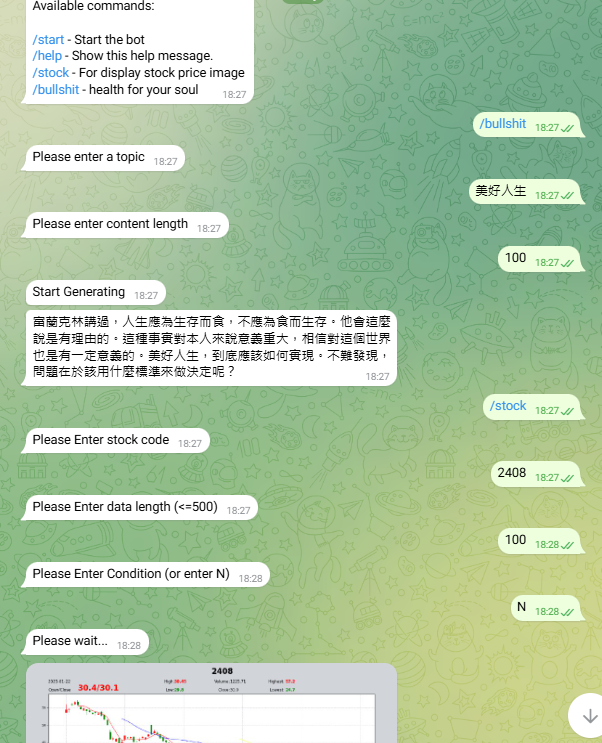
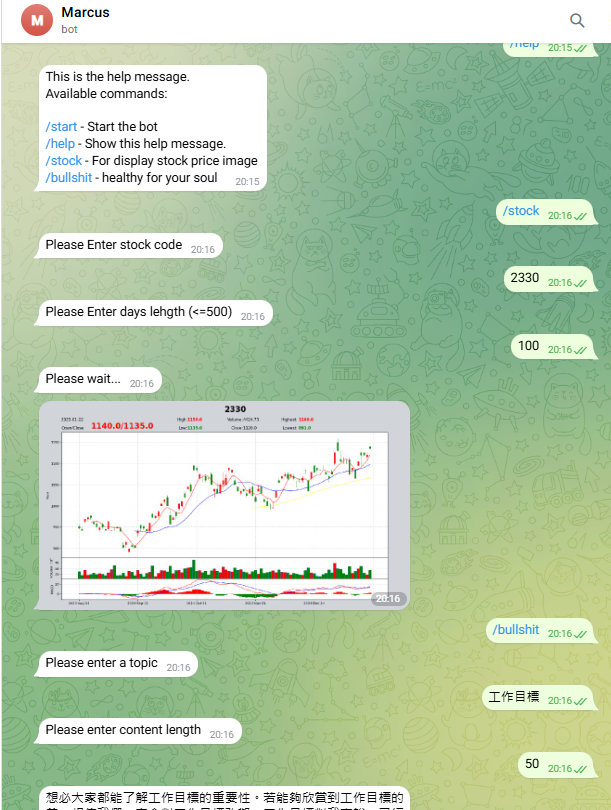
Daily Scraping Done and revise telegram bot

diff --git a/src/TelegramBot/command_handler/stock_handler.py b/src/TelegramBot/command_handler/stock_handler.py
@@ -20,7 +20,7 @@ def register_stock_handler(bot: TeleBot):
         send_info("Reveive stock code")
         chat_id = message.chat.id
         request_body['stock_id'] = message.text
-        bot.send_message(chat_id, 'Please Enter data length (<=500)')
+        bot.send_message(chat_id, 'Please Enter days lehgth (<=500)')
         bot.register_next_step_handler(message, request_length)
 
     @error_handle
@@ -28,27 +28,12 @@ def register_stock_handler(bot: TeleBot):
         send_info("Reveive data length")
         chat_id = message.chat.id
         request_body['limit'] = message.text
-        bot.send_message(chat_id, 'Please Enter Condition (or enter N)')
-        bot.register_next_step_handler(message, generate_image)
-
-    @error_handle
-    def generate_image(message):
-        
-        chat_id = message.chat.id
-        bot.send_message(chat_id, 'Please wait...')
-
-        condition = message.text.upper()
-
-        if condition == 'N':
-            pass
-        else:
-            request_body['condition'] = condition
 
         send_info(f"parameter: {request_body}")
         bot.send_message(chat_id, 'Please wait...')
 
         url = f"http://{SERVER_INFO['url']}:{SERVER_INFO['port']}/image"
-        response = requests.post(url, params=request_body)
+        response = requests.get(url, params=request_body)
         if response.status_code == 200:
             image = BytesIO(response.content)
             bot.send_photo(chat_id, image)

diff --git a/src/Controller/ScarpingController.py b/src/Controller/ScarpingController.py
@@ -1,25 +1,24 @@
 from time import sleep
+from datetime import datetime
 
 from fastapi import APIRouter, HTTPException,status, Response
 from ..setting import send_warn
 from ..Database import sql_client
 from ..Scraping import daily_scraping, setting_stock_list
 
-scraping = APIRouter(prefix="/scraping",tags=['scraping'])
+scraping_router = APIRouter(prefix="/scraping",tags=['scraping'])
 
-@scraping.post("/daily")
-async def daily_work(date: str):
+@scraping_router.get("/daily")
+async def daily_work(date: str=datetime.now().strftime("%Y-%m-%d")):
     """
     ## Hint:
     date format need to be "%Y-%m-%d" beginning
     """
     stock_list = setting_stock_list()
-
     try:
         for stock in stock_list:
             df = daily_scraping(stock, date)
             if df is None:
-                send_warn(f"stock {stock} Data not Found")
                 continue
             sql_client.insert_data("stock_price", df)
             sleep(1)

diff --git a/src/app.py b/src/app.py
@@ -3,8 +3,7 @@ from fastapi import FastAPI
 from fastapi.middleware.cors import CORSMiddleware
 
 from .setting import LogMiddleware, send_info
-from .Controller import image_router
-from .Controller.BullshitController import bullshit_router
+from .Controller import all_controller
 from .TelegramBot.Initial import start_polling
 
 async def app_lifespan(app: FastAPI):
@@ -24,8 +23,9 @@ app.add_middleware(
     allow_methods=["*"],
     allow_headers=["*"],
 )
-app.include_router(image_router)
-app.include_router(bullshit_router)
+
+for controller in all_controller:
+    app.include_router(controller)
 
 @app.get("/")
 async def Hello_world():

diff --git a/src/Controller/ImageController.py b/src/Controller/ImageController.py
@@ -5,12 +5,12 @@ from ..setting import send_info
 image_router = APIRouter(prefix="/image",tags=["images"])
 
 
-@image_router.post("")
-def get_img(stock_id: str, condition: str = None, limit: int = 200):
+@image_router.get("")
+def get_img(stock_id: str, limit: int = 200):
     try:
-        send_info(f"stock_id: {stock_id};condition: {condition};limit: {limit}")
+        send_info(f"stock_id: {stock_id};limit: {limit}")
 
-        action = StockImage(stock_id, limit, condition)
+        action = StockImage(stock_id, limit)
         img_buf = action.draw_picture()
 
         headers = {'Content-Disposition': 'inline; filename="out.png"'}

diff --git a/src/Scraping/stock_price.py b/src/Scraping/stock_price.py
@@ -27,7 +27,6 @@ def daily_scraping(stock_id:str, date:str) -> pd.DataFrame|None:
         df.reset_index(inplace=True)
         df['Date'] = pd.to_datetime(df['Date'].dt.strftime('%Y-%m-%d'))
         df['stock_id'] = stock_id.split('.')[0]
-        send_info(f"Scraping stock price for {stock_id} on {start_date} success")
         return df
     else:
         send_warn(f"No data found for {stock_id} on {start_date}")

diff --git a/src/Controller/__init__.py b/src/Controller/__init__.py
@@ -1,1 +1,5 @@
 from .ImageController import image_router
+from .ScarpingController import scraping_router
+from .BullshitController import bullshit_router
+
+all_controller = [image_router, scraping_router,bullshit_router]

diff --git a/src/Controller/BullshitController.py b/src/Controller/BullshitController.py
@@ -1,4 +1,3 @@
-import json
 from fastapi import APIRouter,HTTPException,status
 from pydantic import BaseModel
 from ..Bullshit.helath_soul import BullShit

diff --git a/README.md b/README.md
@@ -11,6 +11,124 @@
 
 ![image](./docs/telegram.jpg)
 
+### airflow_dag.py
+```python
+from datetime import datetime, timedelta
+import pytz
+
+import requests
+from airflow.decorators import dag
+from airflow.operators.python import (
+    BranchPythonOperator,
+    PythonOperator
+)
+from airflow.operators.empty import EmptyOperator
+from airflow.operators.email import EmailOperator
+from setting import URL, EMAIL
+
+def request_scraping(**context):
+    execution = context['data_interval_end']
+    date = execution.strftime("%Y-%d-%m")
+    request_body = {'date':date}
+    response = requests.get(
+        f"{URL}/scraping/daily",
+        params=request_body
+    )
+
+default_dags = {
+    "owner": "MarcusLin",
+    "depend_on_post": False,
+    "start_date": datetime(
+        2025,2,1,tzinfo=pytz.timezone("Asia/Taipei")
+        ),
+    "email": ['user@example.com'],
+    "email_on_failure": False,
+    "email_in_retry": False,
+    "retries": 1,
+    "retry_delay": timedelta(minutes=10)
+}
+
+def check_weekday(**context) -> str:
+    execution_date = context['data_interval_end']
+    day_of_week = execution_date.weekday()
+    return "weekday" if day_of_week < 5 else "holiday"
+
+def make_an_email(**context):
+    execution_date = context['data_interval_end']
+    task_instance = context['task_instance']
+    if task_instance.xcom_pull(task_ids="check_weekday"):
+        content = f"""
+The scraping task for {execution_date} has been completed successfully.
+Check in your maria database!!
+
+Your Sincerely
+Marcus.Lin
+"""
+    else:
+        content = f"""
+The day on {execution_date} is hoilday!
+Please take a rest and exercising
+
+Your Sincerely
+Marcus.Lin
+"""
+    return content
+
+@dag(
+    dag_id="daily_stock_scraping",
+    description="Daily scraping task",
+    default_args=default_dags,
+    schedule="0 17 * * *",
+    catchup=False
+)
+def scraping():
+
+    check = BranchPythonOperator(
+        task_id='cheek_weekday',
+        python_callable=check_weekday,
+        provide_context = True,
+        op_kwargs={"execute_date": "{{ data_interval_end }}"}
+    )
+
+    holiday = EmptyOperator(
+        task_id="holiday",
+        trigger_rule="none_failed_min_one_success"
+    )
+
+    weekday = EmptyOperator(
+        task_id="weekday",
+        trigger_rule="none_failed_min_one_success"
+    )
+
+    running_scraping = PythonOperator(
+        task_id="Running_daily_scraping",
+        python_callable=request_scraping,
+        provide_context=True,
+        trigger_rule='none_failed_min_one_success'
+    )
+
+    generate_email = PythonOperator(
+        task_id='generate_email_content',
+        python_callable=make_an_email,
+        provide_context=True,
+        trigger_rule='none_failed_min_one_success'
+    )
+
+    send_email = EmailOperator(
+        task_id="send_email",
+        to=EMAIL,
+        subject="Daily Scraping Report",
+        html_content="{{ task_instance.xcom_pull(task_ids='generate_email_content') }}",
+        trigger_rule='none_failed_min_one_success'
+    )
+
+    check >> [weekday, holiday]
+    weekday >> running_scraping >> generate_email >> send_email
+    holiday >> generate_email >> send_email
+
+scraping()
+```
+
 ### 參考來源
 
 [https://github.com/telunyang](https://github.com/telunyang)
